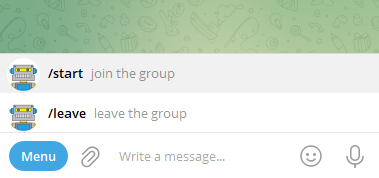
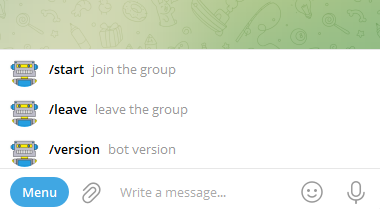
/version menu added

diff --git a/Butler.Bot.Core/UserChat/UserChatBot.cs b/Butler.Bot.Core/UserChat/UserChatBot.cs
@@ -3,6 +3,7 @@ using Microsoft.Extensions.Options;
 using Telegram.Bot;
 using Telegram.Bot.Types.ReplyMarkups;
 using Telegram.Bot.Exceptions;
+using Telegram.Bot.Types.Enums;
 
 namespace Butler.Bot.Core.UserChat;
 
@@ -15,14 +16,18 @@ public class UserChatBot : GroupBotBase, IUserChatBot
 
     public async Task ShowBotVersionAsync(long userChatId, CancellationToken cancellationToken)
     {
-        var botVersion = ButlerVersion.GetCurrent();
+        var bot = await ApiClient.GetMeAsync(cancellationToken);
+        var botName = bot.FirstName;
+        var botVersion = ButlerVersion.GetCurrent().ToString(3);
 
         await ApiClient.SendTextMessageAsync(
             chatId: userChatId,
-            text: Options.UserChatMessages.SayBotVersion.SafeFormat(botVersion),
+            text: Options.UserChatMessages.ShowBotVersion.SafeFormat(botName, botVersion, Options.SiteUrl),
+            parseMode: ParseMode.Html,
+            disableWebPagePreview: true,
             cancellationToken: cancellationToken);
 
-        Logger.LogInformation("Showed current version in private chat: {UserChatId} version: {Version}", userChatId, botVersion);
+        Logger.LogInformation("Showed bot version in private chat: {UserChatId}, botName: {BotName}, botVersion: {BotVersion}, siteUrl: {SiteUrl}", userChatId, botName, botVersion, Options.SiteUrl);
     }
 
     public async Task SayHelloAsync(long userChatId, CancellationToken cancellationToken)

diff --git a/Butler.Bot.Core/UserChat/TextMessageHandler.cs b/Butler.Bot.Core/UserChat/TextMessageHandler.cs
@@ -67,16 +67,16 @@ public class TextMessageHandler : IUpdateHandler
     {
         switch (text.ToLowerInvariant())
         {
-            case "/version":
-                await userChatBot.ShowBotVersionAsync(chat.Id, cancellationToken);
-                return true;
-
             case "/start":
                 await userChatBot.SayHelloAsync(chat.Id, cancellationToken);
                 return true;
 
             case "/leave":
                 await userChatBot.ShowLeaveRequestAsync(chat.Id, cancellationToken);
+                return true;
+
+            case "/version":
+                await userChatBot.ShowBotVersionAsync(chat.Id, cancellationToken);
                 return true;
         }
 

diff --git a/Butler.Bot.Core/UserChat/UserChatMessages.cs b/Butler.Bot.Core/UserChat/UserChatMessages.cs
@@ -16,7 +16,7 @@ public class UserChatMessages
 
     public string ButtonCancel { get; init; } = "Отменить";
 
-    public string SayBotVersion { get; init; } = "Версия бота: {0}";
+    public string ShowBotVersion { get; init; } = "<b>{0}</b>\nверсия: {1}\nсайт: {2}";
 
     public string SayHello { get; init; } = "Привет! Я помогу тебя зайти в группу {0}. Если не против, я задам тебе несколько вопросов, перед тем как ты сможешь туда попасть.";
 

diff --git a/Butler.Bot.Core/ButlerOptions.cs b/Butler.Bot.Core/ButlerOptions.cs
@@ -20,6 +20,8 @@ public class ButlerOptions
 
     public WhoisReviewMode WhoisReviewMode { get; init; } = WhoisReviewMode.None;
 
+    public string SiteUrl { get; init; } = "https://github.com/eseuruk/Butler.Bot";
+
     public AdminGroupOptions AdminGroupOptions { get; init; } = new AdminGroupOptions();
 
     public TargetGroupOptions TargetGroupOptions { get; init; } = new TargetGroupOptions();

diff --git a/Docs/BotMenu.md b/Docs/BotMenu.md
@@ -4,22 +4,33 @@ If you want bot command menu to be visable in the private chat, please follow th
 
 ![Bot.Menu](Images/Bot.Menu.png)
 
+All command files are available in /Commands folder.
+
 * To make bot menu visable in the private chat
 
 ```bat
 REM your bot token
 SET BotToken=XXXXXXXXXXXXXXXXXXXXXXXXXXXXX
 
-curl -X POST https://api.telegram.org/bot%BotToken%/setMyCommands -H "Content-Type: application/json" -d "{\"commands\":[{\"command\":\"start\",\"description\":\"join the group\"}, {\"command\":\"leave\",\"description\":\"leave the group\"}], \"scope\":{\"type\":\"all_private_chats\"}}" 
+REM bot menu commands
+SET "Commands=[{\"command\":\"start\",\"description\":\"join the group\"}, {\"command\":\"leave\",\"description\":\"leave the group\"}, {\"command\":\"version\",\"description\":\"bot version\"}]"
+
+REM menu scope for private chats only
+SET "Scope={\"type\":\"all_private_chats\"}"
+
+curl https://api.telegram.org/bot%BotToken%/setMyCommands --json "{\"commands\":%Commands%, \"scope\":%Scope%}" 
 ```
 
-* To delete private chat menu 
+* * To delete private chat menu 
 
 ```bat
 REM your bot token
 SET BotToken=XXXXXXXXXXXXXXXXXXXXXXXXXXXXX
 
-curl https://api.telegram.org/bot%BotToken%/deleteWebhook?drop_pending_updates=true
+REM menu scope for private chats only
+SET "Scope={\"type\": \"all_private_chats\"}"
+
+curl --get https://api.telegram.org/bot%BotToken%/deleteMyCommands --data-urlencode scope="%Scope%"
 ```
 
 * To see the current settings of private chat menu 
@@ -28,5 +39,8 @@ curl https://api.telegram.org/bot%BotToken%/deleteWebhook?drop_pending_updates=t
 REM your bot token
 SET BotToken=XXXXXXXXXXXXXXXXXXXXXXXXXXXXX
 
-curl https://api.telegram.org/bot%BotToken%/getMyCommands?scope=%%7B%%22type%%22%%3A%%22all_private_chats%%22%%7D
+REM menu scope for private chats only
+SET "Scope={\"type\":\"all_private_chats\"}"
+
+curl --get https://api.telegram.org/bot%BotToken%/getMyCommands --data-urlencode scope="%Scope%"
 ```

diff --git a/Docs/WebHook.md b/Docs/WebHook.md
@@ -1,5 +1,7 @@
 # Bot WebHook
 
+All command files are available in /Commands folder.
+
 * To set bot [webhook](https://core.telegram.org/bots/api#setwebhook) and switch to push mode
 
 ```bat
@@ -12,7 +14,7 @@ SET SecretToken=XXXXXXXXXXXXXXXXXXXXXXXXXXXXX
 REM your aws lamda function url
 SET WebHook=https://XXXXXXXXXXXXXXXXXXXXXXXX.lambda-url.XXXXXXXXXX.on.aws/update
 
-curl -X POST https://api.telegram.org/bot%BotToken%/setWebhook -d "{\"url\": \"%WebHook%\", \"secret_token\":\"%SecretToken%\"}" -H "Content-Type: application/json"
+curl https://api.telegram.org/bot%BotToken%/setWebhook --json "{\"url\":\"%WebHook%\", \"secret_token\":\"%SecretToken%\"}"
 ```
 
 * To see the current bot webhook 
